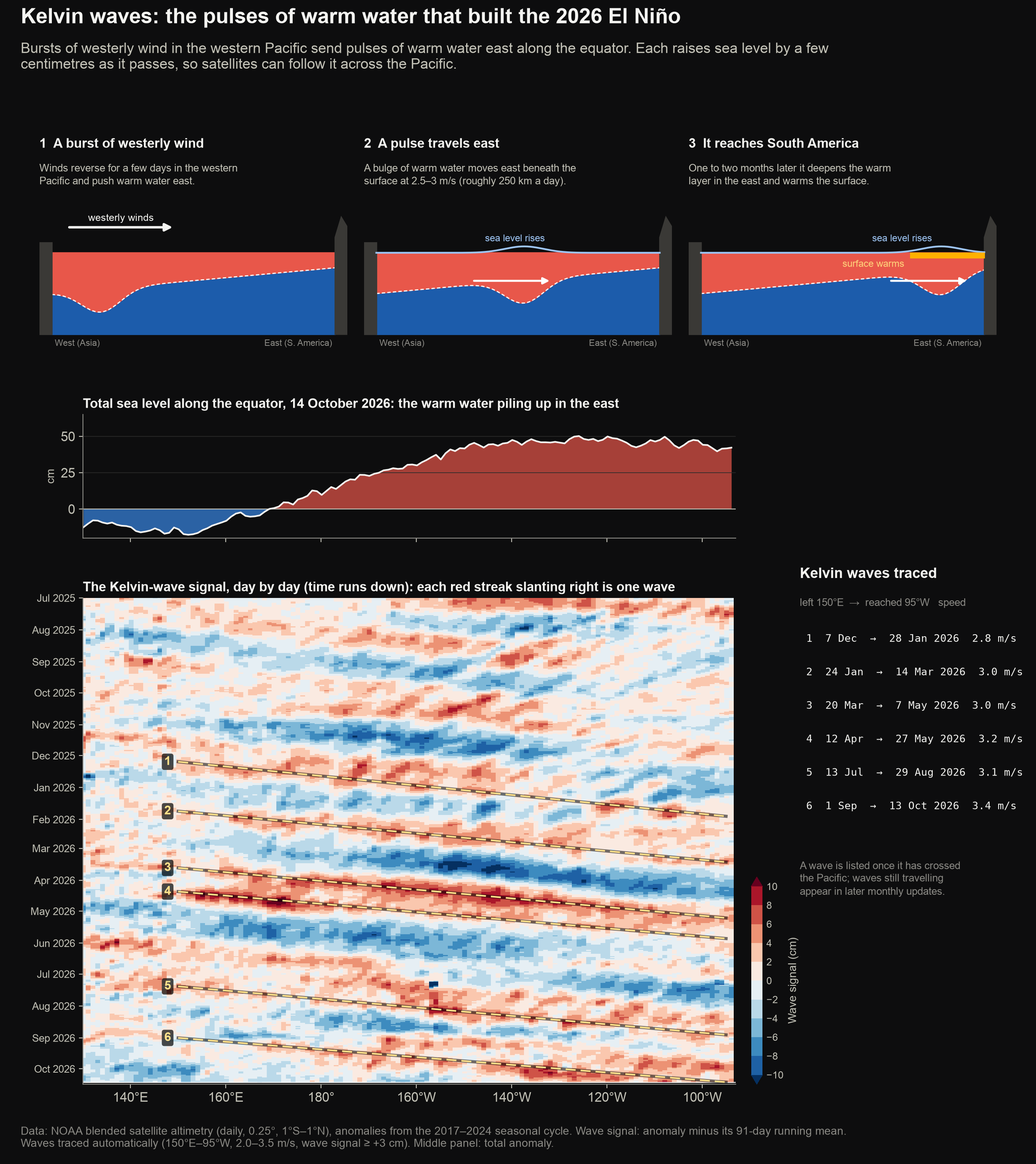
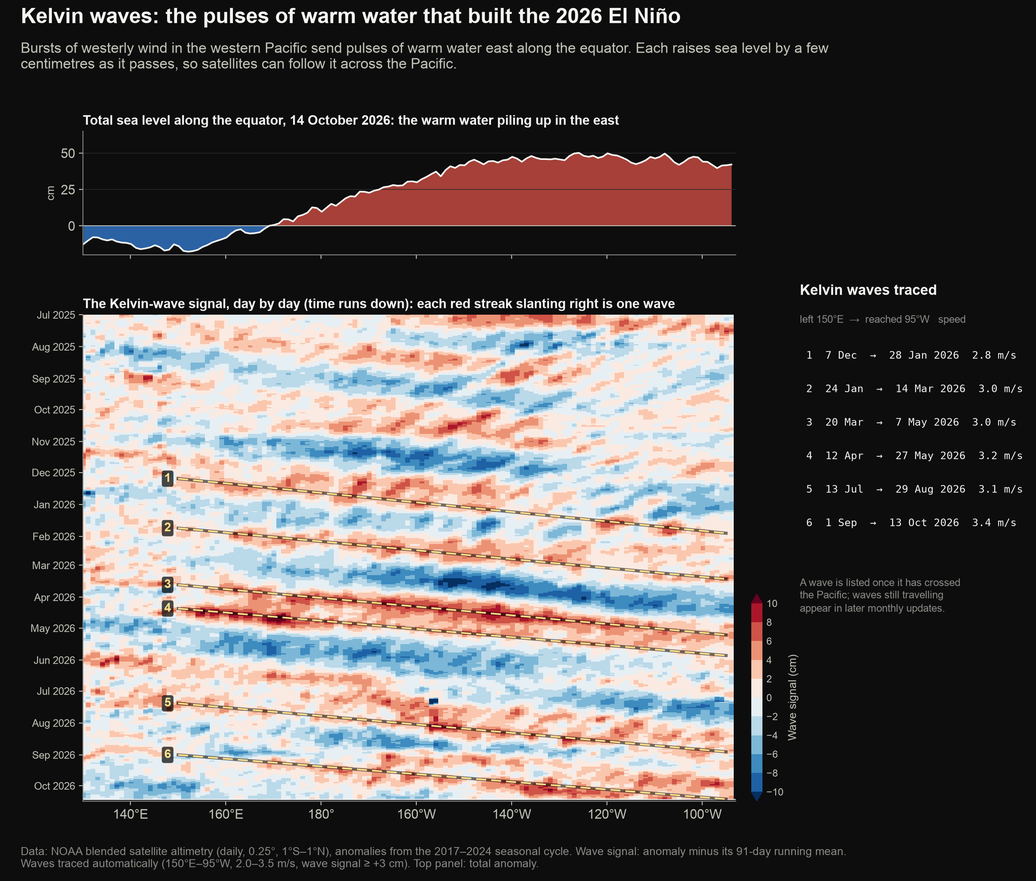
Archive the cartoon explanations (Kelvin wave steps, normal vs El Niño diagram)

diff --git a/docs/index.html b/docs/index.html
@@ -221,61 +221,6 @@
 </header>
 <section class="explainer" aria-labelledby="start-here">
   <h2 id="start-here">Start here: El Niño in one minute</h2>
-  <div class="ex-diagrams">
-    <svg viewBox="0 0 520 300" role="img" aria-labelledby="dn-t dn-d">
-      <title id="dn-t">Normal conditions in the equatorial Pacific</title>
-      <desc id="dn-d">Strong trade winds blow from east to west, piling warm water in the western Pacific, where rain
-        clouds form. The warm layer is thick in the west and thin in the east, where cold water rises to the
-        surface near South America.</desc>
-      <defs>
-        <linearGradient id="dn-warm" x1="0" x2="1"><stop offset="0" stop-color="#d6402f"/><stop offset="0.6" stop-color="#e8794a"/><stop offset="1" stop-color="#f2b14c"/></linearGradient>
-        <linearGradient id="dn-cold" x1="0" y1="0" x2="0" y2="1"><stop offset="0" stop-color="#1c5cab"/><stop offset="1" stop-color="#0d366b"/></linearGradient>
-        <marker id="dn-arrow" viewBox="0 0 10 10" refX="8" refY="5" markerWidth="6" markerHeight="6" orient="auto-start-reverse"><path d="M0,0 L10,5 L0,10 z" fill="currentColor"/></marker>
-      </defs>
-      <text x="16" y="24" class="dg-title">Normal conditions</text>
-      <rect x="40" y="130" width="440" height="140" fill="url(#dn-cold)"/>
-      <path d="M40,130 L480,130 L480,150 C380,170 200,215 40,225 Z" fill="url(#dn-warm)"/>
-      <path d="M40,225 C200,215 380,170 480,150" class="dg-thermo"/>
-      <text x="250" y="216" class="dg-small" transform="rotate(-9 250 216)">thermocline (about 20 °C)</text>
-      <rect x="0" y="105" width="40" height="165" class="dg-land"/>
-      <path d="M480,270 L480,120 L492,70 L505,95 L520,90 L520,270 Z" class="dg-land"/>
-      <g class="dg-cloud"><circle cx="95" cy="62" r="18"/><circle cx="120" cy="52" r="24"/><circle cx="148" cy="64" r="17"/><rect x="80" y="62" width="82" height="18" rx="9"/></g>
-      <g class="dg-rain"><line x1="98" y1="86" x2="92" y2="104"/><line x1="118" y1="86" x2="112" y2="104"/><line x1="138" y1="86" x2="132" y2="104"/></g>
-      <g class="dg-wind"><line x1="420" y1="96" x2="200" y2="96" marker-end="url(#dn-arrow)"/><line x1="440" y1="114" x2="240" y2="114" marker-end="url(#dn-arrow)"/></g>
-      <text x="330" y="86" class="dg-label" text-anchor="middle">strong trade winds</text>
-      <g class="dg-up"><line x1="455" y1="230" x2="455" y2="165" marker-end="url(#dn-arrow)"/></g>
-      <text x="440" y="254" class="dg-small dg-light" text-anchor="end">cold water rises</text>
-      <text x="120" y="160" class="dg-label dg-dark" text-anchor="middle">thick warm layer</text>
-      <text x="8" y="290" class="dg-small">Asia</text>
-      <text x="512" y="290" class="dg-small" text-anchor="end">S. America</text>
-    </svg>
-    <svg viewBox="0 0 520 300" role="img" aria-labelledby="de-t de-d">
-      <title id="de-t">El Niño conditions in the equatorial Pacific</title>
-      <desc id="de-d">The trade winds weaken or reverse. Warm water spreads east across the Pacific and the
-        rain clouds move with it toward the central and eastern Pacific. The warm layer becomes nearly level,
-        so cold water no longer reaches the surface near South America.</desc>
-      <defs>
-        <linearGradient id="de-warm" x1="0" x2="1"><stop offset="0" stop-color="#d6402f"/><stop offset="1" stop-color="#e05a36"/></linearGradient>
-        <linearGradient id="de-cold" x1="0" y1="0" x2="0" y2="1"><stop offset="0" stop-color="#1c5cab"/><stop offset="1" stop-color="#0d366b"/></linearGradient>
-        <marker id="de-arrow" viewBox="0 0 10 10" refX="8" refY="5" markerWidth="6" markerHeight="6" orient="auto-start-reverse"><path d="M0,0 L10,5 L0,10 z" fill="currentColor"/></marker>
-      </defs>
-      <text x="16" y="24" class="dg-title dg-accent">El Niño</text>
-      <rect x="40" y="130" width="440" height="140" fill="url(#de-cold)"/>
-      <path d="M40,130 L480,130 L480,192 C380,196 200,200 40,205 Z" fill="url(#de-warm)"/>
-      <path d="M40,205 C200,200 380,196 480,192" class="dg-thermo"/>
-      <text x="250" y="222" class="dg-small">thermocline flattens</text>
-      <rect x="0" y="105" width="40" height="165" class="dg-land"/>
-      <path d="M480,270 L480,120 L492,70 L505,95 L520,90 L520,270 Z" class="dg-land"/>
-      <g class="dg-cloud"><circle cx="295" cy="62" r="18"/><circle cx="320" cy="52" r="24"/><circle cx="348" cy="64" r="17"/><rect x="280" y="62" width="82" height="18" rx="9"/></g>
-      <g class="dg-rain"><line x1="298" y1="86" x2="292" y2="104"/><line x1="318" y1="86" x2="312" y2="104"/><line x1="338" y1="86" x2="332" y2="104"/></g>
-      <g class="dg-wind"><line x1="190" y1="100" x2="120" y2="100" marker-end="url(#de-arrow)"/></g>
-      <text x="155" y="88" class="dg-label" text-anchor="middle">weak winds</text>
-      <g class="dg-flow"><line x1="140" y1="160" x2="420" y2="160" marker-end="url(#de-arrow)"/></g>
-      <text x="280" y="150" class="dg-label dg-dark" text-anchor="middle">warm water spreads east</text>
-      <text x="8" y="290" class="dg-small">Asia</text>
-      <text x="512" y="290" class="dg-small" text-anchor="end">S. America</text>
-    </svg>
-  </div>
   <div class="ex-text">
     <p><b>Normally</b>, steady trade winds blow west across the tropical Pacific, piling warm water near Asia and
     Australia, where it fuels heavy rain. Off South America, cold water rises from below and keeps the surface
@@ -571,7 +516,7 @@
 
 <figure id="g7"><p class="takeaway">More warm water is stored along the equator in 2026 than at the same stage of 2015, 1997 or 1982.</p><div class="player"><img src="img/07_anim_warm_water.png" data-anim="img/07_anim_warm_water.webp" alt="Animated maps of the depth of the 20 °C isotherm across the tropical Pacific from July 2025 to August 2026 for 2026, 2015, 1997 and 1982 and the 1991–2020 normal. In August, the equatorial warm water volume departed from normal by +3.2 × 10¹⁴ m³ in 2026, +1.0 × 10¹⁴ m³ in 2015, +1.4 × 10¹⁴ m³ in 1997 and +2.2 × 10¹⁴ m³ in 1982." width="2600" height="3687" decoding="async"><button type="button" class="play"><span aria-hidden="true">▶</span> Play animation <span class="size">(10 MB)</span></button></div><figcaption><b>Figure 7. Animation: warm water moving across the Pacific.</b> Animated maps of the depth of the 20 °C isotherm (the thickness of the warm upper layer) from July of the year before onset, for 2026, 2015, 1997, 1982 and the 1991–2020 normal, with the equatorial <span class="term" tabindex="0" data-def="The volume of water warmer than 20 °C near the equator (5°S–5°N, 120°E–80°W). It builds up before an El Niño and is drained by it.">warm water volume<span class="vh"> (The volume of water warmer than 20 °C near the equator (5°S–5°N, 120°E–80°W). It builds up before an El Niño and is drained by it.)</span></span> (5°S–5°N) and its departure from normal. <a href="img/07_anim_warm_water.webp" target="_blank" rel="noopener">Open the animation in a new tab</a> · <a href="img/07_anim_warm_water.png" target="_blank" rel="noopener">still image of the final frame</a>.<details class="how"><summary>How to read this figure</summary><p>Each map shows how far below the surface the warm upper layer reaches (the depth of the 20 °C isotherm). Dark red means warm water extends deep; blue means the warm layer is thin. Watch the band between the dashed lines: during El Niño the red area spreads east along the equator.</p></details></figcaption></figure>
 <figure id="g8"><p class="takeaway">The hottest water has grown the most: the volume warmer than 28 °C is far above normal and above 2015, 1997 and 1982 at the same stage.</p><div class="player"><img src="img/08_anim_warm_layers.png" data-anim="img/08_anim_warm_layers.webp" alt="Animated equatorial Pacific sections coloured by temperature layer from July 2025 to August 2026 for 2026, 2015, 1997, 1982 and Normal (1991–2020), with bars of warm water volume by layer. In August, water above 28 °C between 5°S and 5°N totalled 13.2 × 10¹⁴ m³ in 2026, 9.9 × 10¹⁴ m³ in 2015, 10.2 × 10¹⁴ m³ in 1997, 8.9 × 10¹⁴ m³ in 1982 and 7.5 × 10¹⁴ m³ in Normal (1991–2020); water above 20 °C totalled 26.5, 24.3, 24.7, 25.5 and 23.3 × 10¹⁴ m³ respectively." width="2600" height="3189" decoding="async"><button type="button" class="play"><span aria-hidden="true">▶</span> Play animation <span class="size">(4 MB)</span></button></div><figcaption><b>Figure 8. Animation: layers of warm water.</b> Equatorial sections coloured by temperature layer (20–24, 24–26, 26–28, 28–29 and above 29 °C) for 2026, 2015, 1997, 1982 and the 1991–2020 normal, with the volume of water in each layer between 5°S and 5°N, from July of the year before onset to the latest month. <a href="img/08_anim_warm_layers.webp" target="_blank" rel="noopener">Open the animation in a new tab</a> · <a href="img/08_anim_warm_layers.png" target="_blank" rel="noopener">still image of the final frame</a>.<details class="how"><summary>How to read this figure</summary><p>Each slice runs along the equator from Asia (left) to South America (right) and from 5 m down to 200 m. Colours mark temperature layers, from below 20 °C (dark blue) to above 29 °C (dark red). The dashed lines show where 20 °C and 28 °C normally lie; red reaching below or east of them means more warm water than usual. The bar beside each slice adds up the volume in each layer, warmest on the left.</p></details></figcaption></figure>
-<figure id="g9"><p class="takeaway">A series of <span class="term" tabindex="0" data-def="Pulses of warm water that travel east along the equator beneath the surface, crossing the Pacific in about two months.">Kelvin waves<span class="vh"> (Pulses of warm water that travel east along the equator beneath the surface, crossing the Pacific in about two months.)</span></span> has carried warm water from the western Pacific to South America since late 2025, each one adding to the warm layer in the east.</p><div class="player"><img src="img/09_anim_kelvin.png" data-anim="img/09_anim_kelvin.webp" alt="Animated infographic of Kelvin waves along the equatorial Pacific from July 2025 to 14 October 2026, from daily satellite sea level. 6 Kelvin waves crossed the Pacific: wave 1 left 150°E on 7 December and reached 95°W on 28 January 2026 at 2.8 m/s; wave 2 left 150°E on 24 January and reached 95°W on 14 March 2026 at 3.0 m/s; wave 3 left 150°E on 20 March and reached 95°W on 7 May 2026 at 3.0 m/s; wave 4 left 150°E on 12 April and reached 95°W on 27 May 2026 at 3.2 m/s; wave 5 left 150°E on 13 July and reached 95°W on 29 August 2026 at 3.1 m/s; wave 6 left 150°E on 1 September and reached 95°W on 13 October 2026 at 3.4 m/s. Sea level east of 130°W rose from -1 cm to +46 cm over the period." width="2598" height="2918" decoding="async"><button type="button" class="play"><span aria-hidden="true">▶</span> Play animation <span class="size">(5 MB)</span></button></div><figcaption><b>Figure 9. Animation: Kelvin waves.</b> How a Kelvin wave works, and every Kelvin wave since July 2025 traced in daily satellite sea level along the equator: each pulse raises sea level by a few centimetres as it crosses the Pacific. <a href="img/09_anim_kelvin.webp" target="_blank" rel="noopener">Open the animation in a new tab</a> · <a href="img/09_anim_kelvin.png" target="_blank" rel="noopener">still image of the final frame</a>.<details class="how"><summary>How to read this figure</summary><p>Top: the three steps of a Kelvin wave. Middle: sea level along the equator on the day shown; red bumps moving east are Kelvin waves. Bottom: the same, day by day, with time running down the page, so each wave is a red streak slanting down to the right. Yellow dashed lines trace each wave once it has crossed the Pacific.</p></details></figcaption></figure>
+<figure id="g9"><p class="takeaway">A series of <span class="term" tabindex="0" data-def="Pulses of warm water that travel east along the equator beneath the surface, crossing the Pacific in about two months.">Kelvin waves<span class="vh"> (Pulses of warm water that travel east along the equator beneath the surface, crossing the Pacific in about two months.)</span></span> has carried warm water from the western Pacific to South America since late 2025, each one adding to the warm layer in the east.</p><div class="player"><img src="img/09_anim_kelvin.png" data-anim="img/09_anim_kelvin.webp" alt="Animated infographic of Kelvin waves along the equatorial Pacific from July 2025 to 14 October 2026, from daily satellite sea level. 6 Kelvin waves crossed the Pacific: wave 1 left 150°E on 7 December and reached 95°W on 28 January 2026 at 2.8 m/s; wave 2 left 150°E on 24 January and reached 95°W on 14 March 2026 at 3.0 m/s; wave 3 left 150°E on 20 March and reached 95°W on 7 May 2026 at 3.0 m/s; wave 4 left 150°E on 12 April and reached 95°W on 27 May 2026 at 3.2 m/s; wave 5 left 150°E on 13 July and reached 95°W on 29 August 2026 at 3.1 m/s; wave 6 left 150°E on 1 September and reached 95°W on 13 October 2026 at 3.4 m/s. Sea level east of 130°W rose from -1 cm to +46 cm over the period." width="2598" height="2209" decoding="async"><button type="button" class="play"><span aria-hidden="true">▶</span> Play animation <span class="size">(4 MB)</span></button></div><figcaption><b>Figure 9. Animation: Kelvin waves.</b> Every Kelvin wave since July 2025 traced in daily satellite sea level along the equator: each pulse raises sea level by a few centimetres as it crosses the Pacific. <a href="img/09_anim_kelvin.webp" target="_blank" rel="noopener">Open the animation in a new tab</a> · <a href="img/09_anim_kelvin.png" target="_blank" rel="noopener">still image of the final frame</a>.<details class="how"><summary>How to read this figure</summary><p>Top: total sea level along the equator on the day shown, rising in the east as warm water piles up. Bottom: the Kelvin-wave signal day by day, with time running down the page, so each wave is a red streak slanting down to the right. Yellow dashed lines trace each wave once it has crossed the Pacific.</p></details></figcaption></figure>
 <figure id="g10"><p class="takeaway">Sea level along the equator in the eastern Pacific has risen by about 40 cm since mid-2025 as warm water piled up, with Kelvin-wave ridges arriving one after another.</p><div class="player"><img src="img/10_anim_sealevel_3d.png" data-anim="img/10_anim_sealevel_3d.webp" alt="Animated 3D landscape of sea level across the tropical Pacific from July 2025 to 14 October 2026. Ridges travel east along the equator as Kelvin waves, and sea level on the equator east of 130°W rises from -1 cm to +42 cm." width="2598" height="1638" decoding="async"><button type="button" class="play"><span aria-hidden="true">▶</span> Play animation <span class="size">(4 MB)</span></button></div><figcaption><b>Figure 10. Animation: sea level in 3D.</b> Daily satellite sea level across the tropical Pacific drawn as a 3D landscape, July 2025 to the latest day: Kelvin waves travel east along the equator as the eastern Pacific rises. <a href="img/10_anim_sealevel_3d.webp" target="_blank" rel="noopener">Open the animation in a new tab</a> · <a href="img/10_anim_sealevel_3d.png" target="_blank" rel="noopener">still image of the final frame</a>.<details class="how"><summary>How to read this figure</summary><p>The landscape is the tropical Pacific seen from the south, with Asia to the left and South America to the right; its height and colour are the sea level anomaly. Watch the red ridge along the equator: bumps that move from left to right are Kelvin waves, and the ridge grows as warm water accumulates in the east.</p></details></figcaption></figure>
 <figure id="g11"><p class="takeaway">In 2026 the 20 °C line is nearly flat across the Pacific: the cold water that normally lies close to the surface in the east has been pushed down.</p><div class="player"><img src="img/11_anim_upper_ocean.png" data-anim="img/11_anim_upper_ocean.webp" alt="Animated depth–longitude sections of equatorial Pacific ocean temperature from January to August for 2026, 2015, 1997 and 1982 and the 1991–2020 normal. In August, the upper 200 m east of 180° departed from normal by +4.2 °C in 2026, +2.3 °C in 2015, +2.6 °C in 1997 and +2.0 °C in 1982." width="2598" height="3168" decoding="async"><button type="button" class="play"><span aria-hidden="true">▶</span> Play animation <span class="size">(4 MB)</span></button></div><figcaption><b>Figure 11. Animation: upper-ocean temperature, 2026 and past very strong events.</b> Animated equatorial upper-ocean temperature sections for 2026, 2015, 1997, 1982 and the 1991–2020 normal; during El Niño the warm layer deepens in the east and the 20 °C line flattens. <a href="img/11_anim_upper_ocean.webp" target="_blank" rel="noopener">Open the animation in a new tab</a> · <a href="img/11_anim_upper_ocean.png" target="_blank" rel="noopener">still image of the final frame</a>.<details class="how"><summary>How to read this figure</summary><p>Each panel is a vertical slice through the ocean along the equator, from Asia (left) to South America (right) and from the surface (top) to 200 m depth (bottom). Warm colours above the black line are the warm upper layer. Normally the line rises toward the east; during El Niño it flattens.</p></details></figcaption></figure>
 <figure id="g12"><p class="takeaway">The upper ocean holds far more extra heat in 2026 than in any past very strong event at the same stage.</p><a href="img/12_subsurface_comparison.png" target="_blank" rel="noopener"><img src="img/12_subsurface_comparison.png" alt="Depth-by-longitude slices of the equatorial Pacific in August of 1982, 1997, 2015, 2026. Average extra warmth in the top 200 m from 180° to 80°W: 1982: +2.0 °C; 1997: +2.6 °C; 2015: +2.3 °C; 2026: +4.2 °C." width="2600" height="2440" decoding="async"></a><figcaption><b>Figure 12. Upper-ocean temperature by event.</b> Equatorial upper-ocean temperature at the same stage of each event; the current event holds substantially more subsurface heat.<details class="how"><summary>How to read this figure</summary><p>Each panel is a vertical slice along the equator, from Asia (left) to South America (right), down to 200 m. Colours show how much warmer (red) or cooler (blue) than normal the water is.</p></details></figcaption></figure>

diff --git a/site/explainer.html b/site/explainer.html
@@ -1,60 +1,5 @@
 <section class="explainer" aria-labelledby="start-here">
   <h2 id="start-here">Start here: El Niño in one minute</h2>
-  <div class="ex-diagrams">
-    <svg viewBox="0 0 520 300" role="img" aria-labelledby="dn-t dn-d">
-      <title id="dn-t">Normal conditions in the equatorial Pacific</title>
-      <desc id="dn-d">Strong trade winds blow from east to west, piling warm water in the western Pacific, where rain
-        clouds form. The warm layer is thick in the west and thin in the east, where cold water rises to the
-        surface near South America.</desc>
-      <defs>
-        <linearGradient id="dn-warm" x1="0" x2="1"><stop offset="0" stop-color="#d6402f"/><stop offset="0.6" stop-color="#e8794a"/><stop offset="1" stop-color="#f2b14c"/></linearGradient>
-        <linearGradient id="dn-cold" x1="0" y1="0" x2="0" y2="1"><stop offset="0" stop-color="#1c5cab"/><stop offset="1" stop-color="#0d366b"/></linearGradient>
-        <marker id="dn-arrow" viewBox="0 0 10 10" refX="8" refY="5" markerWidth="6" markerHeight="6" orient="auto-start-reverse"><path d="M0,0 L10,5 L0,10 z" fill="currentColor"/></marker>
-      </defs>
-      <text x="16" y="24" class="dg-title">Normal conditions</text>
-      <rect x="40" y="130" width="440" height="140" fill="url(#dn-cold)"/>
-      <path d="M40,130 L480,130 L480,150 C380,170 200,215 40,225 Z" fill="url(#dn-warm)"/>
-      <path d="M40,225 C200,215 380,170 480,150" class="dg-thermo"/>
-      <text x="250" y="216" class="dg-small" transform="rotate(-9 250 216)">thermocline (about 20 °C)</text>
-      <rect x="0" y="105" width="40" height="165" class="dg-land"/>
-      <path d="M480,270 L480,120 L492,70 L505,95 L520,90 L520,270 Z" class="dg-land"/>
-      <g class="dg-cloud"><circle cx="95" cy="62" r="18"/><circle cx="120" cy="52" r="24"/><circle cx="148" cy="64" r="17"/><rect x="80" y="62" width="82" height="18" rx="9"/></g>
-      <g class="dg-rain"><line x1="98" y1="86" x2="92" y2="104"/><line x1="118" y1="86" x2="112" y2="104"/><line x1="138" y1="86" x2="132" y2="104"/></g>
-      <g class="dg-wind"><line x1="420" y1="96" x2="200" y2="96" marker-end="url(#dn-arrow)"/><line x1="440" y1="114" x2="240" y2="114" marker-end="url(#dn-arrow)"/></g>
-      <text x="330" y="86" class="dg-label" text-anchor="middle">strong trade winds</text>
-      <g class="dg-up"><line x1="455" y1="230" x2="455" y2="165" marker-end="url(#dn-arrow)"/></g>
-      <text x="440" y="254" class="dg-small dg-light" text-anchor="end">cold water rises</text>
-      <text x="120" y="160" class="dg-label dg-dark" text-anchor="middle">thick warm layer</text>
-      <text x="8" y="290" class="dg-small">Asia</text>
-      <text x="512" y="290" class="dg-small" text-anchor="end">S. America</text>
-    </svg>
-    <svg viewBox="0 0 520 300" role="img" aria-labelledby="de-t de-d">
-      <title id="de-t">El Niño conditions in the equatorial Pacific</title>
-      <desc id="de-d">The trade winds weaken or reverse. Warm water spreads east across the Pacific and the
-        rain clouds move with it toward the central and eastern Pacific. The warm layer becomes nearly level,
-        so cold water no longer reaches the surface near South America.</desc>
-      <defs>
-        <linearGradient id="de-warm" x1="0" x2="1"><stop offset="0" stop-color="#d6402f"/><stop offset="1" stop-color="#e05a36"/></linearGradient>
-        <linearGradient id="de-cold" x1="0" y1="0" x2="0" y2="1"><stop offset="0" stop-color="#1c5cab"/><stop offset="1" stop-color="#0d366b"/></linearGradient>
-        <marker id="de-arrow" viewBox="0 0 10 10" refX="8" refY="5" markerWidth="6" markerHeight="6" orient="auto-start-reverse"><path d="M0,0 L10,5 L0,10 z" fill="currentColor"/></marker>
-      </defs>
-      <text x="16" y="24" class="dg-title dg-accent">El Niño</text>
-      <rect x="40" y="130" width="440" height="140" fill="url(#de-cold)"/>
-      <path d="M40,130 L480,130 L480,192 C380,196 200,200 40,205 Z" fill="url(#de-warm)"/>
-      <path d="M40,205 C200,200 380,196 480,192" class="dg-thermo"/>
-      <text x="250" y="222" class="dg-small">thermocline flattens</text>
-      <rect x="0" y="105" width="40" height="165" class="dg-land"/>
-      <path d="M480,270 L480,120 L492,70 L505,95 L520,90 L520,270 Z" class="dg-land"/>
-      <g class="dg-cloud"><circle cx="295" cy="62" r="18"/><circle cx="320" cy="52" r="24"/><circle cx="348" cy="64" r="17"/><rect x="280" y="62" width="82" height="18" rx="9"/></g>
-      <g class="dg-rain"><line x1="298" y1="86" x2="292" y2="104"/><line x1="318" y1="86" x2="312" y2="104"/><line x1="338" y1="86" x2="332" y2="104"/></g>
-      <g class="dg-wind"><line x1="190" y1="100" x2="120" y2="100" marker-end="url(#de-arrow)"/></g>
-      <text x="155" y="88" class="dg-label" text-anchor="middle">weak winds</text>
-      <g class="dg-flow"><line x1="140" y1="160" x2="420" y2="160" marker-end="url(#de-arrow)"/></g>
-      <text x="280" y="150" class="dg-label dg-dark" text-anchor="middle">warm water spreads east</text>
-      <text x="8" y="290" class="dg-small">Asia</text>
-      <text x="512" y="290" class="dg-small" text-anchor="end">S. America</text>
-    </svg>
-  </div>
   <div class="ex-text">
     <p><b>Normally</b>, steady trade winds blow west across the tropical Pacific, piling warm water near Asia and
     Australia, where it fuels heavy rain. Off South America, cold water rises from below and keeps the surface

diff --git a/archive/explainer_diagrams.html b/archive/explainer_diagrams.html
@@ -1,0 +1,56 @@
+<!-- Archived: the normal vs El Niño diagrams from the Start-here box (site/explainer.html). Paste back above <div class="ex-text"> to restore. -->
+  <div class="ex-diagrams">
+    <svg viewBox="0 0 520 300" role="img" aria-labelledby="dn-t dn-d">
+      <title id="dn-t">Normal conditions in the equatorial Pacific</title>
+      <desc id="dn-d">Strong trade winds blow from east to west, piling warm water in the western Pacific, where rain
+        clouds form. The warm layer is thick in the west and thin in the east, where cold water rises to the
+        surface near South America.</desc>
+      <defs>
+        <linearGradient id="dn-warm" x1="0" x2="1"><stop offset="0" stop-color="#d6402f"/><stop offset="0.6" stop-color="#e8794a"/><stop offset="1" stop-color="#f2b14c"/></linearGradient>
+        <linearGradient id="dn-cold" x1="0" y1="0" x2="0" y2="1"><stop offset="0" stop-color="#1c5cab"/><stop offset="1" stop-color="#0d366b"/></linearGradient>
+        <marker id="dn-arrow" viewBox="0 0 10 10" refX="8" refY="5" markerWidth="6" markerHeight="6" orient="auto-start-reverse"><path d="M0,0 L10,5 L0,10 z" fill="currentColor"/></marker>
+      </defs>
+      <text x="16" y="24" class="dg-title">Normal conditions</text>
+      <rect x="40" y="130" width="440" height="140" fill="url(#dn-cold)"/>
+      <path d="M40,130 L480,130 L480,150 C380,170 200,215 40,225 Z" fill="url(#dn-warm)"/>
+      <path d="M40,225 C200,215 380,170 480,150" class="dg-thermo"/>
+      <text x="250" y="216" class="dg-small" transform="rotate(-9 250 216)">thermocline (about 20 °C)</text>
+      <rect x="0" y="105" width="40" height="165" class="dg-land"/>
+      <path d="M480,270 L480,120 L492,70 L505,95 L520,90 L520,270 Z" class="dg-land"/>
+      <g class="dg-cloud"><circle cx="95" cy="62" r="18"/><circle cx="120" cy="52" r="24"/><circle cx="148" cy="64" r="17"/><rect x="80" y="62" width="82" height="18" rx="9"/></g>
+      <g class="dg-rain"><line x1="98" y1="86" x2="92" y2="104"/><line x1="118" y1="86" x2="112" y2="104"/><line x1="138" y1="86" x2="132" y2="104"/></g>
+      <g class="dg-wind"><line x1="420" y1="96" x2="200" y2="96" marker-end="url(#dn-arrow)"/><line x1="440" y1="114" x2="240" y2="114" marker-end="url(#dn-arrow)"/></g>
+      <text x="330" y="86" class="dg-label" text-anchor="middle">strong trade winds</text>
+      <g class="dg-up"><line x1="455" y1="230" x2="455" y2="165" marker-end="url(#dn-arrow)"/></g>
+      <text x="440" y="254" class="dg-small dg-light" text-anchor="end">cold water rises</text>
+      <text x="120" y="160" class="dg-label dg-dark" text-anchor="middle">thick warm layer</text>
+      <text x="8" y="290" class="dg-small">Asia</text>
+      <text x="512" y="290" class="dg-small" text-anchor="end">S. America</text>
+    </svg>
+    <svg viewBox="0 0 520 300" role="img" aria-labelledby="de-t de-d">
+      <title id="de-t">El Niño conditions in the equatorial Pacific</title>
+      <desc id="de-d">The trade winds weaken or reverse. Warm water spreads east across the Pacific and the
+        rain clouds move with it toward the central and eastern Pacific. The warm layer becomes nearly level,
+        so cold water no longer reaches the surface near South America.</desc>
+      <defs>
+        <linearGradient id="de-warm" x1="0" x2="1"><stop offset="0" stop-color="#d6402f"/><stop offset="1" stop-color="#e05a36"/></linearGradient>
+        <linearGradient id="de-cold" x1="0" y1="0" x2="0" y2="1"><stop offset="0" stop-color="#1c5cab"/><stop offset="1" stop-color="#0d366b"/></linearGradient>
+        <marker id="de-arrow" viewBox="0 0 10 10" refX="8" refY="5" markerWidth="6" markerHeight="6" orient="auto-start-reverse"><path d="M0,0 L10,5 L0,10 z" fill="currentColor"/></marker>
+      </defs>
+      <text x="16" y="24" class="dg-title dg-accent">El Niño</text>
+      <rect x="40" y="130" width="440" height="140" fill="url(#de-cold)"/>
+      <path d="M40,130 L480,130 L480,192 C380,196 200,200 40,205 Z" fill="url(#de-warm)"/>
+      <path d="M40,205 C200,200 380,196 480,192" class="dg-thermo"/>
+      <text x="250" y="222" class="dg-small">thermocline flattens</text>
+      <rect x="0" y="105" width="40" height="165" class="dg-land"/>
+      <path d="M480,270 L480,120 L492,70 L505,95 L520,90 L520,270 Z" class="dg-land"/>
+      <g class="dg-cloud"><circle cx="295" cy="62" r="18"/><circle cx="320" cy="52" r="24"/><circle cx="348" cy="64" r="17"/><rect x="280" y="62" width="82" height="18" rx="9"/></g>
+      <g class="dg-rain"><line x1="298" y1="86" x2="292" y2="104"/><line x1="318" y1="86" x2="312" y2="104"/><line x1="338" y1="86" x2="332" y2="104"/></g>
+      <g class="dg-wind"><line x1="190" y1="100" x2="120" y2="100" marker-end="url(#de-arrow)"/></g>
+      <text x="155" y="88" class="dg-label" text-anchor="middle">weak winds</text>
+      <g class="dg-flow"><line x1="140" y1="160" x2="420" y2="160" marker-end="url(#de-arrow)"/></g>
+      <text x="280" y="150" class="dg-label dg-dark" text-anchor="middle">warm water spreads east</text>
+      <text x="8" y="290" class="dg-small">Asia</text>
+      <text x="512" y="290" class="dg-small" text-anchor="end">S. America</text>
+    </svg>
+  </div>

diff --git a/anim_kelvin.py b/anim_kelvin.py
@@ -1,10 +1,10 @@
 """
 Animation 7 — Kelvin waves: the pulses of warm water that built the 2026 El Niño
 
-An infographic in three parts:
-  1. How a Kelvin wave works (schematic, three steps).
-  2. Total sea level along the equator on the day shown: the build-up of warm water in the east.
-  3. The Kelvin-wave signal along the equator (1°S–1°N) since July of the year before onset, day by
+An infographic in two parts (the three-step cartoon that used to head it is in
+archive/kelvin_schematic.py):
+  1. Total sea level along the equator on the day shown: the build-up of warm water in the east.
+  2. The Kelvin-wave signal along the equator (1°S–1°N) since July of the year before onset, day by
      day, filled in as the animation runs, with each wave traced and listed once it has crossed.
 
 Data: NOAA blended satellite altimetry (daily, 0.25°). Anomalies are relative to the 2017–2024
@@ -22,7 +22,6 @@ import pandas as pd
 import matplotlib.dates as mdates
 import matplotlib.pyplot as plt
 from matplotlib.colors import BoundaryNorm
-from matplotlib.patches import FancyArrowPatch, Polygon, Rectangle
 from matplotlib.ticker import FuncFormatter
 
 from enso_anim import AnimationFrames
@@ -68,46 +67,6 @@ def track_waves(sig):
     return [(sig.index[i0], c, s, d0 + pd.Timedelta(days=te)) for s, i0, c, te in waves]
 
 
-def schematic(fig, rect):
-    """Three cartoon cross-sections of the equatorial Pacific, west (left) to east (right)."""
-    steps = [
-        ("1  A burst of westerly wind", "Winds reverse for a few days in the western\nPacific and push warm water east."),
-        ("2  A pulse travels east", "A bulge of warm water moves east beneath the\nsurface at 2.5–3 m/s (roughly 250 km a day)."),
-        ("3  It reaches South America", "One to two months later it deepens the warm\nlayer in the east and warms the surface."),
-    ]
-    x, y, w, h = rect
-    warm, cold, land = "#e8574a", "#1c5cab", "#3a3936"
-    for k, (title, text) in enumerate(steps):
-        ax = fig.add_axes([x + k * w / 3 + 0.008, y, w / 3 - 0.016, h])
-        ax.set_xlim(0, 10); ax.set_ylim(-4.0, 4.6); ax.axis("off")
-        bump = [2.0, 5.2, 8.2][k]
-        xs = np.linspace(0.4, 9.6, 200)
-        z = -1.6 + 0.11 * (xs - 0.4) - 0.9 * np.exp(-((xs - bump) / 0.9) ** 2)   # base of the warm layer
-        ax.add_patch(Rectangle((0.4, -3.2), 9.2, 3.2, color=cold, zorder=1))
-        ax.add_patch(Polygon(np.column_stack([np.r_[xs, xs[::-1]], np.r_[z, np.zeros_like(xs)]]), color=warm,
-                             zorder=2))
-        ax.plot(xs, z, color="white", lw=1, ls=(0, (3, 2)), zorder=3)
-        ax.add_patch(Rectangle((0, -3.2), 0.4, 3.6, color=land, zorder=4))
-        ax.add_patch(Polygon([[9.6, -3.2], [9.6, 0.6], [9.8, 1.4], [10, 1.0], [10, -3.2]], color=land, zorder=4))
-        if k == 0:
-            ax.add_patch(FancyArrowPatch((0.9, 1.0), (4.4, 1.0), arrowstyle="-|>", mutation_scale=14, lw=2.2,
-                                         color=COLORS["text"]))
-            ax.text(2.65, 1.25, "westerly winds", ha="center", fontsize=9, color=COLORS["text"])
-        else:
-            ax.add_patch(FancyArrowPatch((bump - 1.7, -1.1), (bump + 0.9, -1.1), arrowstyle="-|>",
-                                         mutation_scale=12, lw=1.8, color="white", zorder=5))
-            ax.plot(xs, 0.25 * np.exp(-((xs - bump) / 0.9) ** 2), color="#9ec5f4", lw=1.6, zorder=5)
-            ax.text(bump - 0.3, 0.45, "sea level rises", ha="center" if k == 1 else "right", fontsize=8.5,
-                    color="#9ec5f4")
-        if k == 2:
-            ax.add_patch(Rectangle((7.2, -0.2), 2.4, 0.2, color="#ffb000", zorder=6))
-            ax.text(7.0, -0.55, "surface warms", ha="right", fontsize=8.5, color="#ffd27a", zorder=6)
-        ax.text(0.0, 4.5, title, fontsize=12, fontweight="bold", color=COLORS["text"], va="top")
-        ax.text(0.0, 3.55, text, fontsize=9.5, color=COLORS["text_2"], va="top", linespacing=1.3)
-        ax.text(0.5, -3.65, "West (Asia)", fontsize=8, color=COLORS["muted"])
-        ax.text(9.5, -3.65, "East (S. America)", fontsize=8, color=COLORS["muted"], ha="right")
-
-
 def main():
     ap = argparse.ArgumentParser(description=__doc__, formatter_class=argparse.RawDescriptionHelpFormatter)
     ap.add_argument("--every", type=int, default=4, help="days per animation frame")
@@ -126,11 +85,10 @@ def main():
     waves = track_waves(sig)
     dates = anom.index
 
-    H = 14.6
+    H = 11.05
     fig = plt.figure(figsize=(13, H))
-    schematic(fig, (0.03, 1 - 4.45 / H, 0.94, 2.75 / H))
     W = 0.63
-    prof = fig.add_axes([0.08, 1 - 6.75 / H, W, 1.55 / H])
+    prof = fig.add_axes([0.08, 1 - 3.20 / H, W, 1.55 / H])
     hov = fig.add_axes([0.08, 1.0 / H, W, 6.1 / H], sharex=prof)
 
     # bottom: the wave signal, revealed day by day
@@ -169,11 +127,11 @@ def main():
 
     # right: the list of waves, filled in as each one completes its crossing
     lx = 0.08 + W + 0.062
-    fig.text(lx, 1 - 7.25 / H, "Kelvin waves traced", fontsize=13, fontweight="bold", color=COLORS["text"])
-    fig.text(lx, 1 - 7.6 / H, "left 150°E  →  reached 95°W   speed", fontsize=9.5, color=COLORS["muted"])
+    fig.text(lx, 1 - 3.70 / H, "Kelvin waves traced", fontsize=13, fontweight="bold", color=COLORS["text"])
+    fig.text(lx, 1 - 4.05 / H, "left 150°E  →  reached 95°W   speed", fontsize=9.5, color=COLORS["muted"])
     rows, tracks = [], []
     for n, (t0, c, s, t1) in enumerate(waves, 1):
-        rows.append((t1, fig.text(lx, 1 - (8.05 + 0.42 * (n - 1)) / H,
+        rows.append((t1, fig.text(lx, 1 - (4.50 + 0.42 * (n - 1)) / H,
                                   f"{n:>2}  {t0:%-d %b}  →  {t1:%-d %b %Y}  {c:.1f} m/s", fontsize=9.5,
                                   color=COLORS["text"], alpha=0, family="monospace")))
         ln, = hov.plot([X0, X1], [t0, t1], color="black", lw=2.8, alpha=0)
@@ -181,7 +139,7 @@ def main():
         num = hov.text(X0 - 1.5, t0, str(n), fontsize=11, fontweight="bold", color="#ffe08a", ha="right",
                        va="center", alpha=0, bbox=dict(boxstyle="round,pad=0.2", fc="black", ec="none", alpha=0))
         tracks.append((t1, ln, ln2, num))
-    note = fig.text(lx, 1 - (8.25 + 0.42 * len(waves)) / H,
+    note = fig.text(lx, 1 - (4.70 + 0.42 * len(waves)) / H,
                     "A wave is listed once it has crossed\nthe Pacific; waves still travelling\nappear in later "
                     "monthly updates.", fontsize=9.5, color=COLORS["muted"], va="top", linespacing=1.35)
 
@@ -190,7 +148,7 @@ def main():
               "raises sea level by a few\ncentimetres as it passes, so satellites can follow it across the Pacific.")
     add_source(fig, "Data: NOAA blended satellite altimetry (daily, 0.25°, 1°S–1°N), anomalies from the 2017–2024 "
                "seasonal cycle. Wave signal: anomaly minus its 91-day running mean.\nWaves traced automatically "
-               "(150°E–95°W, 2.0–3.5 m/s, wave signal ≥ +3 cm). Middle panel: total anomaly.")
+               "(150°E–95°W, 2.0–3.5 m/s, wave signal ≥ +3 cm). Top panel: total anomaly.")
 
     frames = AnimationFrames(fig, dpi=105)
     idx = list(range(0, len(dates), args.every))

diff --git a/archive/kelvin_schematic.py b/archive/kelvin_schematic.py
@@ -1,0 +1,58 @@
+"""
+Archived: the three-step cartoon of how a Kelvin wave works, which used to head the Kelvin wave
+animation (anim_kelvin.py). Run on its own to draw it as a still image:
+
+    PYTHONPATH=. python archive/kelvin_schematic.py
+"""
+import numpy as np
+import matplotlib.pyplot as plt
+from matplotlib.patches import FancyArrowPatch, Polygon, Rectangle
+
+from enso_common import FIG_DIR, COLORS, apply_style, save
+
+
+def schematic(fig, rect):
+    """Three cartoon cross-sections of the equatorial Pacific, west (left) to east (right)."""
+    steps = [
+        ("1  A burst of westerly wind", "Winds reverse for a few days in the western\nPacific and push warm water east."),
+        ("2  A pulse travels east", "A bulge of warm water moves east beneath the\nsurface at 2.5–3 m/s (roughly 250 km a day)."),
+        ("3  It reaches South America", "One to two months later it deepens the warm\nlayer in the east and warms the surface."),
+    ]
+    x, y, w, h = rect
+    warm, cold, land = "#e8574a", "#1c5cab", "#3a3936"
+    for k, (title, text) in enumerate(steps):
+        ax = fig.add_axes([x + k * w / 3 + 0.008, y, w / 3 - 0.016, h])
+        ax.set_xlim(0, 10); ax.set_ylim(-4.0, 4.6); ax.axis("off")
+        bump = [2.0, 5.2, 8.2][k]
+        xs = np.linspace(0.4, 9.6, 200)
+        z = -1.6 + 0.11 * (xs - 0.4) - 0.9 * np.exp(-((xs - bump) / 0.9) ** 2)   # base of the warm layer
+        ax.add_patch(Rectangle((0.4, -3.2), 9.2, 3.2, color=cold, zorder=1))
+        ax.add_patch(Polygon(np.column_stack([np.r_[xs, xs[::-1]], np.r_[z, np.zeros_like(xs)]]), color=warm,
+                             zorder=2))
+        ax.plot(xs, z, color="white", lw=1, ls=(0, (3, 2)), zorder=3)
+        ax.add_patch(Rectangle((0, -3.2), 0.4, 3.6, color=land, zorder=4))
+        ax.add_patch(Polygon([[9.6, -3.2], [9.6, 0.6], [9.8, 1.4], [10, 1.0], [10, -3.2]], color=land, zorder=4))
+        if k == 0:
+            ax.add_patch(FancyArrowPatch((0.9, 1.0), (4.4, 1.0), arrowstyle="-|>", mutation_scale=14, lw=2.2,
+                                         color=COLORS["text"]))
+            ax.text(2.65, 1.25, "westerly winds", ha="center", fontsize=9, color=COLORS["text"])
+        else:
+            ax.add_patch(FancyArrowPatch((bump - 1.7, -1.1), (bump + 0.9, -1.1), arrowstyle="-|>",
+                                         mutation_scale=12, lw=1.8, color="white", zorder=5))
+            ax.plot(xs, 0.25 * np.exp(-((xs - bump) / 0.9) ** 2), color="#9ec5f4", lw=1.6, zorder=5)
+            ax.text(bump - 0.3, 0.45, "sea level rises", ha="center" if k == 1 else "right", fontsize=8.5,
+                    color="#9ec5f4")
+        if k == 2:
+            ax.add_patch(Rectangle((7.2, -0.2), 2.4, 0.2, color="#ffb000", zorder=6))
+            ax.text(7.0, -0.55, "surface warms", ha="right", fontsize=8.5, color="#ffd27a", zorder=6)
+        ax.text(0.0, 4.5, title, fontsize=12, fontweight="bold", color=COLORS["text"], va="top")
+        ax.text(0.0, 3.55, text, fontsize=9.5, color=COLORS["text_2"], va="top", linespacing=1.3)
+        ax.text(0.5, -3.65, "West (Asia)", fontsize=8, color=COLORS["muted"])
+        ax.text(9.5, -3.65, "East (S. America)", fontsize=8, color=COLORS["muted"], ha="right")
+
+
+if __name__ == "__main__":
+    apply_style("dark")
+    fig = plt.figure(figsize=(13, 3.2))
+    schematic(fig, (0.03, 0.02, 0.94, 0.95))
+    save(fig, FIG_DIR / "archive" / "kelvin_schematic.png", alt="Three-step cartoon of a Kelvin wave.")

diff --git a/site_config.py b/site_config.py
@@ -58,8 +58,8 @@ PAGES = [
              "2026, 2015, 1997, 1982 and the 1991–2020 normal, with the volume of water in each layer between 5°S "
              "and 5°N, from July of the year before onset to the latest month."),
             ('anim_kelvin.py', True, 'Animation: Kelvin waves',
-             "How a Kelvin wave works, and every Kelvin wave since July 2025 traced in daily satellite sea level along "
-             "the equator: each pulse raises sea level by a few centimetres as it crosses the Pacific."),
+             "Every Kelvin wave since July 2025 traced in daily satellite sea level along the equator: each pulse "
+             "raises sea level by a few centimetres as it crosses the Pacific."),
             ('anim_sealevel_3d.py', True, 'Animation: sea level in 3D',
              "Daily satellite sea level across the tropical Pacific drawn as a 3D landscape, July 2025 to the latest "
              "day: Kelvin waves travel east along the equator as the eastern Pacific rises."),
@@ -230,8 +230,8 @@ FIGURE_NOTES = {
     "anim_kelvin.py": dict(
         takeaway="A series of Kelvin waves has carried warm water from the western Pacific to South America since "
                  "late 2025, each one adding to the warm layer in the east.",
-        how="Top: the three steps of a Kelvin wave. Middle: sea level along the equator on the day shown; red bumps "
-            "moving east are Kelvin waves. Bottom: the same, day by day, with time running down the page, so each "
+        how="Top: total sea level along the equator on the day shown, rising in the east as warm water piles up. "
+            "Bottom: the Kelvin-wave signal day by day, with time running down the page, so each "
             "wave is a red streak slanting down to the right. Yellow dashed lines trace each wave once it has "
             "crossed the Pacific."),
     "anim_sealevel_3d.py": dict(
